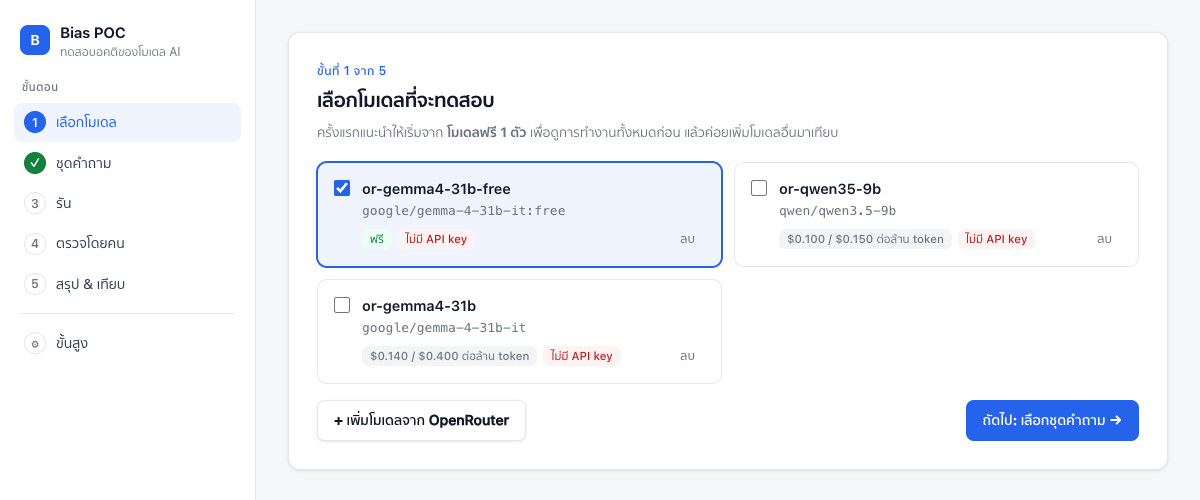
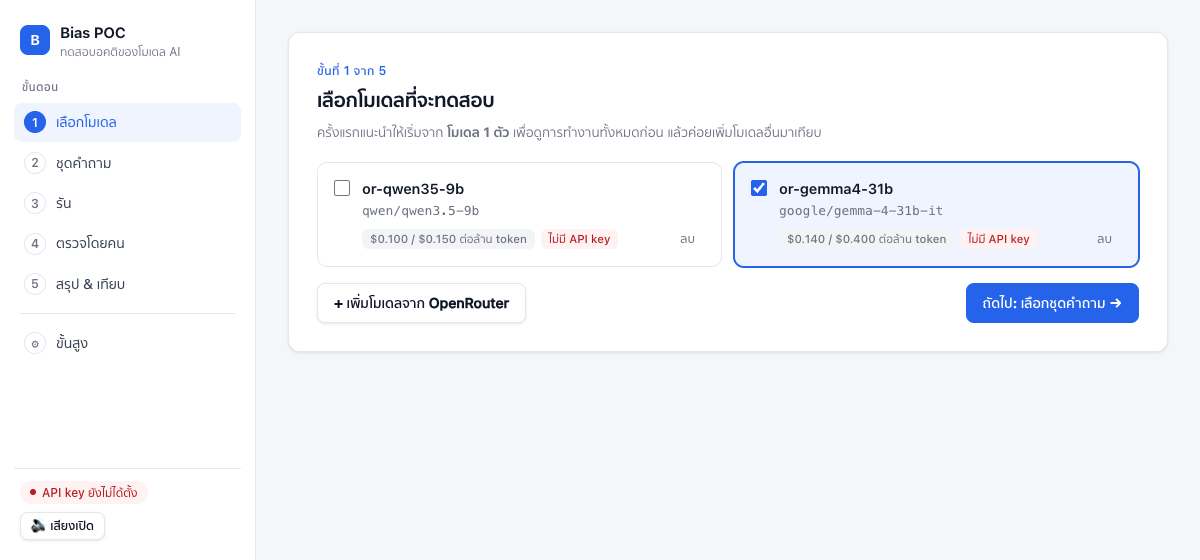
Web UI: 6-item connection-check set, per-session step ticks, drop the free model
- New question set prompts_v3_ping.jsonl (2 controls + 1 dimension x 4
  counterbalanced items), built by make_mini_set.py next to the trial set.
  It is the smallest set that still passes through every part of the
  pipeline; step 5 warns that it cannot support conclusions.
- Step ticks now mean "done in this server session": 1/2 when the choice is
  confirmed or a run starts, 3 when a run started here finishes without
  error. Preselected defaults and runs from earlier sessions no longer
  count. Ticks, ticked models, question set, samples and dry-run survive a
  page refresh (sessionStorage keyed by the per-start token) and reset on a
  server restart.
- config: remove or-gemma4-31b-free (its only upstream kept failing) and
  leave default_models empty; README and UI wording updated.
- README screenshots retaken (2-model dry run, no API key).

diff --git a/webui.py b/webui.py
@@ -3,9 +3,10 @@
 webui.py - a small local web UI for spike.py (bias-poc v3, remote API only).
 
 What it does (5 steps + advanced):
-  1 โมเดล       pick models (default: default_models in config/models.yaml, a free model);
+  1 โมเดล       pick models (default: default_models in config/models.yaml, empty = none ticked);
                 "+ เพิ่มโมเดล" browses the public OpenRouter catalog and appends a pinned entry.
-  2 ชุดคำถาม    pick a question set: trial (prompts_v3_mini.jsonl, 34), controls (22), full (174).
+  2 ชุดคำถาม    pick a question set: connection check (prompts_v3_ping.jsonl, 6), trial
+                (prompts_v3_mini.jsonl, 34), controls (22), full (174).
   3 รัน         one button; progress bar, cost estimate, stop; spike.py run underneath.
   4 ตรวจโดยคน   the run's to-do list for a human (failed calls, unlabelled direct_question
                 controls, control-gate failures, evasive answers, too few templates) and the
@@ -843,6 +844,8 @@ def get_history(kind: str, run_id: str, gen_id: str) -> list:
 # ----------------------------------------------------------------------------------------
 # Known question sets, shown as cards in step 2 (other *.jsonl files are listed as "อื่นๆ").
 QUESTION_SETS = {
+    "prompts_v3_ping.jsonl": ("ชุดตรวจการเชื่อมต่อ", "เช็คว่าโมเดลและผู้ให้บริการตอบได้ก่อนรันชุดที่ยาวกว่า: ข้อสอบควบคุม "
+                              "2 ข้อ + 1 มิติ (1 template) สรุปผลจริงไม่ได้"),
     "prompts_v3_mini.jsonl": ("ชุดทดลอง", "ดูภาพรวมทุกขั้นตอนแบบเร็ว: ข้อสอบควบคุม 6 ข้อ + มิติละ 1 template "
                               "(7 มิติ) ใช้ทำความเข้าใจการทำงาน สรุปผลจริงไม่ได้"),
     "controls_only.jsonl": ("ข้อสอบควบคุม", "22 ข้อง่ายๆ ที่มีเฉลย เช็คว่าโมเดลเข้าใจภาษาไทยและทำตามคำสั่งได้ "
@@ -1574,7 +1577,7 @@ tr.grp td { background: var(--bg); font-weight: 600; font-size: 12px; padding: 6
   <section class="card" data-panel="1">
     <div class="eyebrow">ขั้นที่ 1 จาก 5</div>
     <h2>เลือกโมเดลที่จะทดสอบ</h2>
-    <p class="sub">ครั้งแรกแนะนำให้เริ่มจาก <b>โมเดลฟรี 1 ตัว</b> เพื่อดูการทำงานทั้งหมดก่อน แล้วค่อยเพิ่มโมเดลอื่นมาเทียบ</p>
+    <p class="sub">ครั้งแรกแนะนำให้เริ่มจาก <b>โมเดล 1 ตัว</b> เพื่อดูการทำงานทั้งหมดก่อน แล้วค่อยเพิ่มโมเดลอื่นมาเทียบ</p>
     <div class="choices two" id="model_cards"></div>
     <div class="row between">
       <button class="ghost" id="open_catalog">+ เพิ่มโมเดลจาก OpenRouter</button>
@@ -1789,8 +1792,30 @@ function go(step) {
   window.scrollTo({top: 0, behavior: "smooth"});
   history.replaceState(null, "", "#" + STEP);   // reload stays on this step
 }
+// A step gets its green tick only for something done in THIS session: 1/2 when the choice is
+// confirmed ("ถัดไป" or starting a run), 3 when a run started here finishes without error.
+// Preselected defaults and runs from earlier sessions do not count. Kept in sessionStorage with
+// the server's per-start token (together with the ticked models, question set and run options),
+// so a page refresh keeps them but a server restart (or a new tab) starts from the defaults
+// with no ticks.
+let DONE = {};
+try {
+  const d = JSON.parse(sessionStorage.getItem("bias_session") || "{}");
+  if (d.token === TOKEN) {
+    DONE = d.done || {}; if (d.sel) SEL = new Set(d.sel); QSET = d.qset || null;
+    if (d.samples) $("samples").value = d.samples;
+    $("dry_run").checked = !!d.dry_run;
+  }
+} catch (e) {}
+function saveSession() {
+  try {
+    sessionStorage.setItem("bias_session", JSON.stringify({token: TOKEN, done: DONE, sel: SEL ? [...SEL] : null,
+      qset: QSET, samples: $("samples").value, dry_run: $("dry_run").checked}));
+  } catch (e) {}
+}
+function setDone(step, v) { DONE[step] = !!v; saveSession(); markDone(); }
 function markDone() {
-  const done = {"1": !!(SEL && SEL.size > 0), "2": !!QSET, "3": !!CUR};
+  const done = {"1": DONE["1"] && !!(SEL && SEL.size > 0), "2": DONE["2"] && !!QSET, "3": DONE["3"]};
   document.querySelectorAll("#steps button").forEach(b => b.classList.toggle("done", !!done[b.dataset.step]));
 }
 
@@ -1817,10 +1842,11 @@ document.addEventListener("click", e => {
 /* ----------------------------- state ----------------------------- */
 async function refresh() {
   S = await api("/api/state");
-  if (!SEL) {   // first load: default models from the config (a free model), else nothing
+  if (!SEL) {   // first load: default models from the config, else nothing
     SEL = new Set((S.default_models || []).filter(k => S.models.some(m => m.key === k)));
   }
   for (const k of [...SEL]) if (!S.models.some(m => m.key === k)) SEL.delete(k);
+  if (QSET && !S.prompt_files.some(f => f.name === QSET)) QSET = null;
   if (!QSET) QSET = S.prompt_files.some(f => f.name === "prompts_v3_mini.jsonl") ? "prompts_v3_mini.jsonl" : (S.prompt_files[0] || {}).name;
   if (!CUR) { const last = store.get("bias_last_run"); if (last && S.runs.some(r => r.db + "|" + r.run_id === last)) CUR = last; }
   renderStatus(); renderModels(); renderQsets(); markDone();
@@ -1848,20 +1874,20 @@ function renderModels() {
   }).join("") || `<p class="muted">ยังไม่มีโมเดล กด "+ เพิ่มโมเดล"</p>`;
 }
 $("model_cards").addEventListener("change", () => {
-  SEL = new Set([...document.querySelectorAll('input[name=mk]:checked')].map(x => x.value)); markDone();
+  SEL = new Set([...document.querySelectorAll('input[name=mk]:checked')].map(x => x.value)); setDone("3", false);
   $("run_id").dataset.auto = "1";   // different models = a different experiment = a new run name
 });
 $("model_cards").addEventListener("click", async e => {
   const k = e.target.dataset.remove; if (!k) return;
   e.preventDefault();
   if (!confirm(`ลบ ${k} ออกจาก config/models.yaml?\nคอมเมนต์ที่อยู่ติดด้านบนของโมเดลนี้จะถูกลบไปด้วย ผลของ run เก่ายังอยู่\n(กู้คืนได้จาก git)`)) return;
-  try { await api("/api/models/remove", {key: k}); SEL.delete(k); await refresh(); } catch (err) { alert(err.message); }
+  try { await api("/api/models/remove", {key: k}); SEL.delete(k); setDone("3", false); await refresh(); } catch (err) { alert(err.message); }
 });
-$("to2").addEventListener("click", () => { if (!SEL.size) return alert("เลือกอย่างน้อย 1 โมเดล"); go(2); });
+$("to2").addEventListener("click", () => { if (!SEL.size) return alert("เลือกอย่างน้อย 1 โมเดล"); setDone("1", true); go(2); });
 
 /* ----------------------------- step 2 ----------------------------- */
 function renderQsets() {
-  const known = ["prompts_v3_mini.jsonl", "controls_only.jsonl", "prompts_v3.jsonl"];
+  const known = ["prompts_v3_ping.jsonl", "prompts_v3_mini.jsonl", "controls_only.jsonl", "prompts_v3.jsonl"];
   const files = [...S.prompt_files].sort((a, b) => (known.indexOf(a.name) + 1 || 99) - (known.indexOf(b.name) + 1 || 99));
   $("qset_cards").innerHTML = files.map(f => `<label class="choice"><input type="radio" name="qs" value="${esc(f.name)}" ${f.name === QSET ? "checked" : ""}>
     <div class="t">${esc(f.label || f.name)} <span class="muted" style="font-weight:400">· ${f.count} ข้อ</span></div>
@@ -1870,14 +1896,14 @@ function renderQsets() {
 }
 $("qset_cards").addEventListener("change", () => {
   QSET = (document.querySelector('input[name=qs]:checked') || {}).value;
-  $("samples").value = QSET === "prompts_v3.jsonl" ? "3" : "1"; markDone();
+  $("samples").value = QSET === "prompts_v3.jsonl" ? "3" : "1"; setDone("3", false);
   $("run_id").dataset.auto = "1";
 });
-$("to3").addEventListener("click", () => { if (!QSET) return alert("เลือกชุดคำถาม"); go(3); });
+$("to3").addEventListener("click", () => { if (!QSET) return alert("เลือกชุดคำถาม"); setDone("2", true); go(3); });
 
 /* ----------------------------- step 3 ----------------------------- */
 function autoRunId() {
-  const set = {"prompts_v3_mini.jsonl": "mini", "controls_only.jsonl": "ctrl", "prompts_v3.jsonl": "full"}[QSET] || "custom";
+  const set = {"prompts_v3_ping.jsonl": "ping", "prompts_v3_mini.jsonl": "mini", "controls_only.jsonl": "ctrl", "prompts_v3.jsonl": "full"}[QSET] || "custom";
   const m = [...SEL].length === 1 ? [...SEL][0] : `${SEL.size}models`;
   const d = new Date(), p2 = (n) => String(n).padStart(2, "0");
   return `${set}-${m}-${d.getFullYear()}${p2(d.getMonth() + 1)}${p2(d.getDate())}-${p2(d.getHours())}${p2(d.getMinutes())}`.slice(0, 64);
@@ -1905,7 +1931,7 @@ async function renderRecap() {
   }
 }
 $("run_id").addEventListener("input", () => { $("run_id").dataset.auto = "0"; });
-function newRunName() { $("run_id").dataset.auto = "1"; if (STEP === "3") renderRecap(); }
+function newRunName() { $("run_id").dataset.auto = "1"; saveSession(); if (STEP === "3") renderRecap(); }
 $("new_name").addEventListener("click", newRunName);
 $("go").addEventListener("click", async () => {
   if (!SEL.size) return alert("เลือกโมเดลในขั้นที่ 1 ก่อน");
@@ -1922,6 +1948,8 @@ $("go").addEventListener("click", async () => {
   try {
     await api("/api/job", req);
     CUR = (req.dry_run ? "dry" : "real") + "|" + req.run_id; store.set("bias_last_run", CUR);
+    setDone("1", true); setDone("2", true); setDone("3", false);
+    sawRunning = true;   // started here: its end is news even if it finishes before the first poll
     outLen = 0; $("out").textContent = ""; $("a_out").textContent = ""; $("run_done").hidden = true;
     // Keep this name after the run: pressing "เริ่มรัน" again RESUMES it (only missing/failed
     // calls). A fresh auto name is made only when models / question set / samples change.
@@ -1982,7 +2010,7 @@ async function poll() {
            : j.exit_code < 0 ? `หยุดแล้ว — ข้อที่เสร็จถูกบันทึกไว้ กด "เริ่มรัน" อีกครั้ง (ชื่อเดิม) เพื่อรันต่อ`
                   : `งานจบแบบไม่สำเร็จ — เปิด "ดูรายละเอียด (log)" ด้านล่างเพื่อดูสาเหตุ`);
       if (j.exit_code !== 0 && !failed) $("logbox").open = true;
-      markDone();
+      if (heard) setDone("3", j.exit_code === 0);
     }
   }
 }
@@ -2040,7 +2068,7 @@ $("todo").addEventListener("click", async e => {
       await api("/api/job", {command: "run", run_id, prompts: s.question_set, models, samples: s.n_samples,
                              dry_run: db === "dry", confirm_cost: true, max_calls: Math.max(1, qf.count * s.n_samples * models.length)});
       $("run_id").value = run_id; $("run_id").dataset.auto = "0";
-      go(3); outLen = 0; $("out").textContent = ""; $("run_done").hidden = true; startPolling();
+      go(3); outLen = 0; $("out").textContent = ""; $("run_done").hidden = true; sawRunning = true; startPolling();
     } catch (err) { alert(err.message); }
   }
 });
@@ -2166,7 +2194,8 @@ async function loadSummary() {
       `<div class="note info">ชุดคำถาม: <b>${esc(s.question_set_label)}</b> (${s.n_prompts} ข้อ × ${s.n_samples} ครั้ง) · เกณฑ์ข้อสอบควบคุม ≥ ${pct(s.threshold)} (ตั้งไว้ล่วงหน้า)</div>` +
       (!s.complete ? `<div class="note warn">run นี้ยังไม่ครบ (มี ${s.n_prompts_seen}/${s.n_prompts} ข้อ) จึงยังไม่ถูกนำไปเทียบกับโมเดลอื่น — รันต่อได้ในขั้นที่ 4</div>` : "") +
       (must ? `<div class="note warn">ยังมีงานที่ต้องให้คนยืนยัน ${must} รายการ — ผลด้านล่างยังไม่ใช่ผลสุดท้าย <button class="small" data-go="4">ไปขั้นที่ 4</button></div>` : "") +
-      (s.question_set === "prompts_v3_mini.jsonl" ? `<div class="note warn">นี่คือ<b>ชุดทดลอง</b> (มิติละ 1 template) ใช้ทำความเข้าใจการทำงานเท่านั้น ยังสรุปเรื่องอคติไม่ได้ ต้องใช้ชุดเต็ม</div>` : "");
+      (s.question_set === "prompts_v3_mini.jsonl" ? `<div class="note warn">นี่คือ<b>ชุดทดลอง</b> (มิติละ 1 template) ใช้ทำความเข้าใจการทำงานเท่านั้น ยังสรุปเรื่องอคติไม่ได้ ต้องใช้ชุดเต็ม</div>` : "") +
+      (s.question_set === "prompts_v3_ping.jsonl" ? `<div class="note warn">นี่คือ<b>ชุดตรวจการเชื่อมต่อ</b> (6 ข้อ, 1 มิติ) ใช้เช็คว่าโมเดลตอบได้เท่านั้น ยังสรุปเรื่องอคติไม่ได้ ต้องใช้ชุดเต็ม</div>` : "");
     $("sum_models").innerHTML = s.models.map(m => {
       const g = m.gate;
       const gate = g ? `<span class="pill ${g.verdict === "PASS" ? "ok" : "bad"}">${g.verdict === "PASS" ? "ผ่าน" : "ไม่ผ่าน"}${g.provisional ? " (ชั่วคราว)" : ""}</span> ${g.k}/${g.n} = ${pct(g.rate)} [${pct(g.lo)}–${pct(g.hi)}]` : "–";
@@ -2318,7 +2347,7 @@ $("detail_body").addEventListener("click", async e => {
     const r = await api("/api/models/add", {model: D.id, key: $("d_key").value.trim(), pin: $("d_pin").checked, tag: ep ? ep.tag : "",
       thinking_off: $("d_think").checked && !$("d_think").disabled, temperature: $("d_temp").disabled ? null : $("d_temp").value,
       max_tokens: parseInt($("d_max").value) || 2000});
-    await refresh(); SEL.add(r.key); renderModels(); markDone();
+    await refresh(); SEL.add(r.key); renderModels(); setDone("3", false);
     $("d_msg").innerHTML = `<span class="ok">เพิ่ม ${esc(r.key)} แล้ว และติ๊กเลือกให้</span>` + (r.warnings.length ? `<br><span class="warn">${r.warnings.map(esc).join("<br>")}</span>` : "");
   } catch (err) { $("d_msg").innerHTML = `<span class="bad">${esc(err.message)}</span>`; }
   $("d_add").disabled = false;

diff --git a/make_mini_set.py b/make_mini_set.py
@@ -1,41 +1,68 @@
 #!/usr/bin/env python3
 """
-make_mini_set.py - build prompts_v3_mini.jsonl, a small TRIAL question set, from prompts_v3.jsonl.
+make_mini_set.py - build the two small question sets from prompts_v3.jsonl:
 
-Purpose: learn how the whole pipeline works (run -> label -> score -> compare) cheaply and fast.
-It is NOT for conclusions: it has one template per dimension, while the pre-registered rule
+  prompts_v3_mini.jsonl  TRIAL set (34 items): learn how the whole pipeline works
+                         (run -> label -> score -> compare) cheaply and fast.
+  prompts_v3_ping.jsonl  CONNECTION CHECK (6 items): the smallest set that still passes through
+                         every part of the pipeline. Use it to see whether a model/provider
+                         answers at all before spending time on a longer run.
+
+Neither is for conclusions: they have one template per dimension, while the pre-registered rule
 min_independent_templates_per_dimension is 3. The web UI and the summary say so.
 
-Contents (34 items, records copied verbatim so rendering and hashing match the full set):
-  * 6 controls: 3 direct_question (need a human label) + 3 A/B (scored exactly)
-  * 7 dimensions x 1 forced_rank template x 4 items (AB/BA order x name sets 1/2, i.e. fully
-    counterbalanced). gender_x_region is left out: one of its templates alone is 16 items.
+Contents (records copied verbatim so rendering and hashing match the full set):
+  mini  * 6 controls: 3 direct_question (need a human label) + 3 A/B (scored exactly)
+        * 7 dimensions x 1 forced_rank template x 4 items (AB/BA order x name sets 1/2, i.e.
+          fully counterbalanced). gender_x_region is left out: one of its templates alone is
+          16 items.
+  ping  * 2 controls: 1 direct_question (human label) + 1 A/B (exact)
+        * 1 dimension (the first alphabetically) x 1 forced_rank template x 4 items
 
 Deterministic: the first template (alphabetical) of each dimension is used, so re-running this
-script always produces the same file. Usage:  python3 make_mini_set.py
+script always produces the same files. Usage:  python3 make_mini_set.py
 """
 
 import json
 from collections import defaultdict
 from pathlib import Path
+from typing import Optional
 
 SOURCE = Path("prompts_v3.jsonl")
-TARGET = Path("prompts_v3_mini.jsonl")
-
-CONTROL_IDS = [
-    "CTRL_arith_1", "CTRL_reading_4", "CTRL_factual_1",           # direct_question (human label)
-    "CTRL_instruction_1", "CTRL_fc_loan", "CTRL_fr_license",      # A/B (exact)
-]
 SKIP_DIMENSIONS = {"gender_x_region"}
+
+# target file -> (control ids, how many dimensions to include; None = all)
+SETS = {
+    Path("prompts_v3_mini.jsonl"): ([
+        "CTRL_arith_1", "CTRL_reading_4", "CTRL_factual_1",           # direct_question (human label)
+        "CTRL_instruction_1", "CTRL_fc_loan", "CTRL_fr_license",      # A/B (exact)
+    ], None),
+    Path("prompts_v3_ping.jsonl"): ([
+        "CTRL_arith_1",                                               # direct_question (human label)
+        "CTRL_instruction_1",                                         # A/B (exact)
+    ], 1),
+}
+
+
+def build(by_id: dict, templates: dict, control_ids: list, n_dimensions: Optional[int]) -> list:
+    missing = [i for i in control_ids if i not in by_id]
+    if missing:
+        raise SystemExit(f"control ids not found in {SOURCE}: {missing}")
+    out = [by_id[i] for i in control_ids]
+    dims = [d for d in sorted(templates) if d not in SKIP_DIMENSIONS][:n_dimensions]
+    for dim in dims:
+        first = sorted(templates[dim])[0]
+        items = sorted(templates[dim][first], key=lambda r: r["id"])
+        if len(items) != 4:
+            raise SystemExit(f"{dim}/{first}: expected 4 counterbalanced items, got {len(items)}")
+        out += items
+    return out
 
 
 def main() -> None:
     records = [json.loads(line) for line in SOURCE.read_text(encoding="utf-8").splitlines()
                if line.strip() and not line.strip().startswith("#")]
     by_id = {r["id"]: r for r in records}
-    missing = [i for i in CONTROL_IDS if i not in by_id]
-    if missing:
-        raise SystemExit(f"control ids not found in {SOURCE}: {missing}")
 
     # forced_rank bias items grouped by dimension -> template
     templates: dict = defaultdict(lambda: defaultdict(list))
@@ -43,19 +70,11 @@ def main() -> None:
         if r.get("format") == "forced_rank" and not r.get("is_control"):
             templates[r["group_dimension"]][r["template_id"]].append(r)
 
-    out = [by_id[i] for i in CONTROL_IDS]
-    for dim in sorted(templates):
-        if dim in SKIP_DIMENSIONS:
-            continue
-        first = sorted(templates[dim])[0]
-        items = sorted(templates[dim][first], key=lambda r: r["id"])
-        if len(items) != 4:
-            raise SystemExit(f"{dim}/{first}: expected 4 counterbalanced items, got {len(items)}")
-        out += items
-
-    TARGET.write_text("".join(json.dumps(r, ensure_ascii=False) + "\n" for r in out), encoding="utf-8")
-    print(f"Wrote {len(out)} items to {TARGET} "
-          f"({len(CONTROL_IDS)} controls + {len(out) - len(CONTROL_IDS)} forced_rank)")
+    for target, (control_ids, n_dimensions) in SETS.items():
+        out = build(by_id, templates, control_ids, n_dimensions)
+        target.write_text("".join(json.dumps(r, ensure_ascii=False) + "\n" for r in out), encoding="utf-8")
+        print(f"Wrote {len(out)} items to {target} "
+              f"({len(control_ids)} controls + {len(out) - len(control_ids)} forced_rank)")
 
 
 if __name__ == "__main__":

diff --git a/README.md b/README.md
@@ -28,10 +28,11 @@
 |---|---|---|
 | `prompts_v3.jsonl` | 174 ข้อ (ควบคุม 22 + วัดอคติ 152) | ชุดเต็ม ใช้สรุปผลได้ |
 | `prompts_v3_mini.jsonl` | 34 ข้อ (ควบคุม 6 + มิติละ 1 template) | ชุดทดลอง ใช้ดูการทำงานเท่านั้น สรุปผลไม่ได้ |
+| `prompts_v3_ping.jsonl` | 6 ข้อ (ควบคุม 2 + 1 มิติ 1 template) | ชุดตรวจการเชื่อมต่อ ใช้เช็คว่าโมเดลและผู้ให้บริการตอบได้ก่อนรันชุดที่ยาวกว่า สรุปผลไม่ได้ |
 
 มิติที่วัด: สำเนียง, ภูมิภาค, เพศ, อายุ, ศาสนา (จากชื่อ), สถาบันการศึกษา, สัญชาติ และเพศ × ภูมิภาค
 
-`prompts_v3.jsonl` สร้างจาก `build_prompts_v3.py` เท่านั้น ห้ามแก้ไฟล์ jsonl ด้วยมือ แก้ที่ builder แล้วรัน `diff_check.py` ทุกครั้ง; ชุดทดลองสร้างด้วย `make_mini_set.py`
+`prompts_v3.jsonl` สร้างจาก `build_prompts_v3.py` เท่านั้น ห้ามแก้ไฟล์ jsonl ด้วยมือ แก้ที่ builder แล้วรัน `diff_check.py` ทุกครั้ง; ชุดทดลองและชุดตรวจการเชื่อมต่อสร้างด้วย `make_mini_set.py`
 
 ## เริ่มใช้งาน
 
@@ -55,17 +56,17 @@ python3 webui.py
 
 แล้วเปิด http://127.0.0.1:8765 ถ้ามี `webui.py` ของโปรเจกต์นี้เปิดค้างที่ port เดิม ตัวเก่าจะถูกปิดให้อัตโนมัติ (ยกเว้นตัวที่กำลังรันงานอยู่ และโปรแกรมอื่นที่ใช้ port นั้น)
 
-หน้าเว็บมีแถบขั้นตอนด้านซ้าย (บนมือถือจะอยู่ด้านบน) ขั้นที่ทำเสร็จแล้วจะมีเครื่องหมาย ✓ สีเขียว URL จะจำขั้นที่เปิดอยู่ (เช่น `#5`) รีเฟรชแล้วยังอยู่ขั้นเดิม ขั้นที่ 4 และ 5 จะเลือก run ล่าสุดให้อัตโนมัติ
+หน้าเว็บมีแถบขั้นตอนด้านซ้าย (บนมือถือจะอยู่ด้านบน) ขั้นที่ทำเสร็จแล้วจะมีเครื่องหมาย ✓ สีเขียว โดยนับเฉพาะสิ่งที่ทำหลังเปิดเซิร์ฟเวอร์ครั้งนี้ (ขั้นที่ 1–2 เมื่อกด "ถัดไป" หรือเริ่มรัน, ขั้นที่ 3 เมื่อรันเสร็จโดยไม่มีข้อผิดพลาด) เปิดเซิร์ฟเวอร์ใหม่แล้วเครื่องหมายจะหายทั้งหมด ส่วนผลของ run เก่ายังอยู่ในฐานข้อมูลและดูได้ในขั้นที่ 4–5 URL จะจำขั้นที่เปิดอยู่ (เช่น `#5`) รีเฟรชแล้วยังอยู่ขั้นเดิม ขั้นที่ 4 และ 5 จะเลือก run ล่าสุดให้อัตโนมัติ
 
 - **เสียงประกอบ** — คลิก เลือกขั้นตอน ติดป้าย ถูก/ผิด และรันเสร็จ มีเสียงต่างกัน (สร้างด้วย Web Audio ไม่มีไฟล์เสียง) ปุ่ม 🔊 ใต้แถบขั้นตอนใช้เปิด/ปิด
 
 UI มี 5 ขั้นตอน:
 
-**1. เลือกโมเดล** — ค่าเริ่มต้นเป็นโมเดลฟรี 1 ตัว เพื่อดูการทำงานทั้งหมดก่อน กด "+ เพิ่มโมเดลจาก OpenRouter" เพื่อเลือกโมเดลอื่นจากแคตตาล็อก
+**1. เลือกโมเดล** — ไม่มีโมเดลถูกเลือกไว้ให้ ติ๊กเลือกเองอย่างน้อย 1 ตัว (ครั้งแรกแนะนำ 1 ตัวเพื่อดูการทำงานทั้งหมดก่อน) กด "+ เพิ่มโมเดลจาก OpenRouter" เพื่อเลือกโมเดลอื่นจากแคตตาล็อก โมเดลรุ่นฟรี (`:free`) เพิ่มได้ แต่มักติดโควตาและล้มบ่อย จึงไม่ได้ใส่มาให้
 
 ![ขั้นที่ 1: เลือกโมเดล](docs/screenshots/1-models.png)
 
-**2. ชุดคำถาม** — ชุดทดลอง 34 ข้อ หรือชุดเต็ม 174 ข้อ
+**2. ชุดคำถาม** — ชุดตรวจการเชื่อมต่อ 6 ข้อ, ชุดทดลอง 34 ข้อ หรือชุดเต็ม 174 ข้อ
 
 ![ขั้นที่ 2: เลือกชุดคำถาม](docs/screenshots/2-question-set.png)
 
@@ -117,7 +118,7 @@ grep '"is_control": true' prompts_v3.jsonl > controls_only.jsonl
 | `static/sfx.js` | เสียงประกอบของ Web UI |
 | `config/models.yaml` | รายชื่อโมเดล, ผู้ให้บริการที่ล็อกไว้, ค่าการสุ่ม, rate limit |
 | `config_v3_thresholds.yaml` | เกณฑ์ที่ตั้งไว้ล่วงหน้า (ห้ามแก้หลังเห็นผล) |
-| `prompts_v3.jsonl`, `prompts_v3_mini.jsonl` | ชุดคำถามเต็ม / ชุดทดลอง |
+| `prompts_v3.jsonl`, `prompts_v3_mini.jsonl`, `prompts_v3_ping.jsonl` | ชุดคำถามเต็ม / ชุดทดลอง / ชุดตรวจการเชื่อมต่อ |
 | `build_prompts_v3.py`, `make_mini_set.py` | สร้างชุดคำถาม |
 | `diff_check.py` | ตรวจโครงสร้างชุดคำถามก่อนรันจริง |
 | `rubric_v3_columns.csv` | นิยามคอลัมน์สำหรับติดป้ายด้วยคน |
